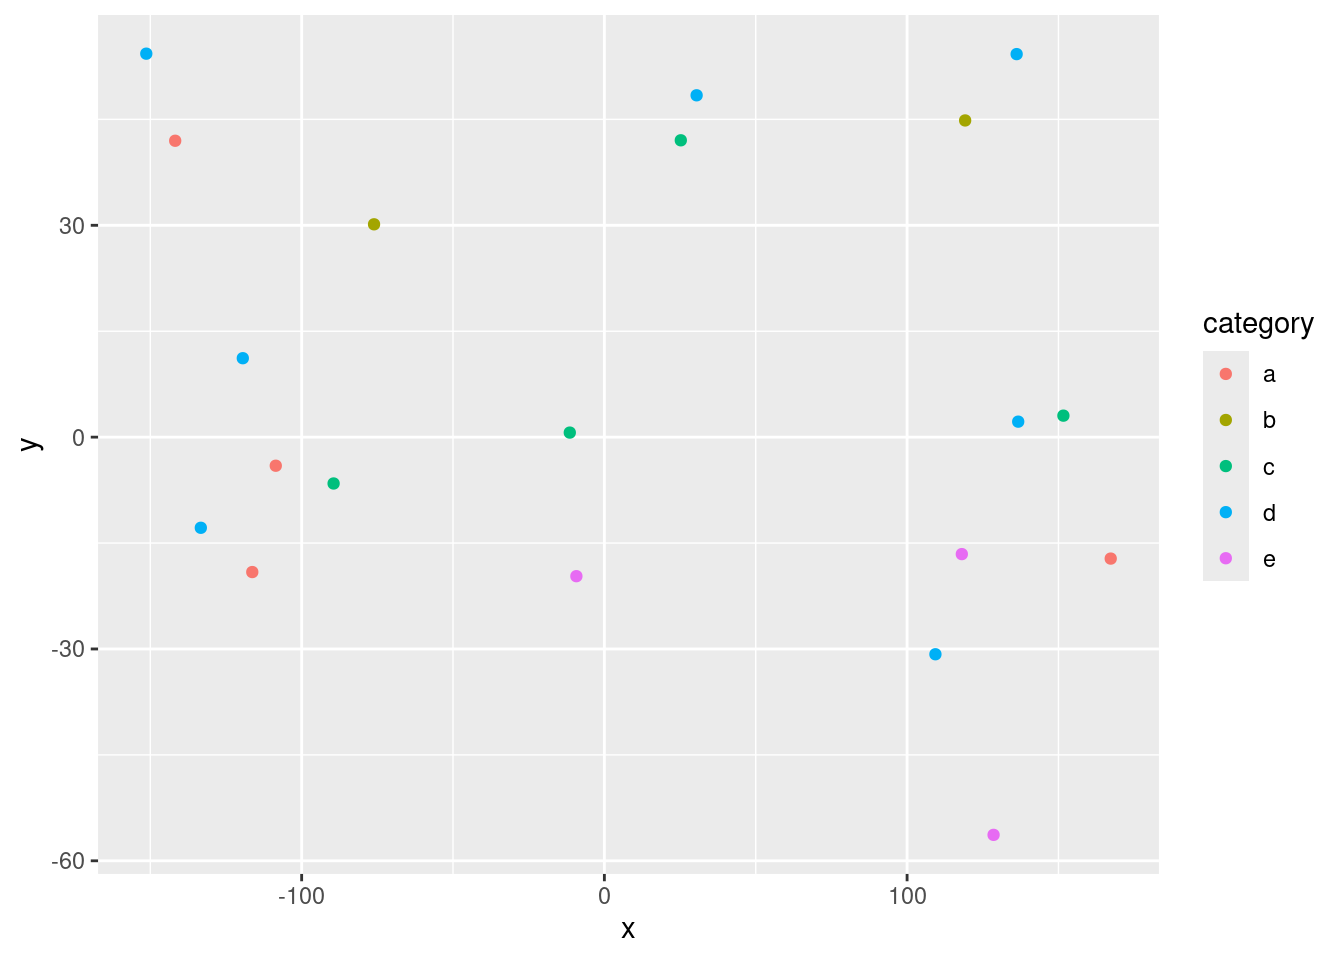
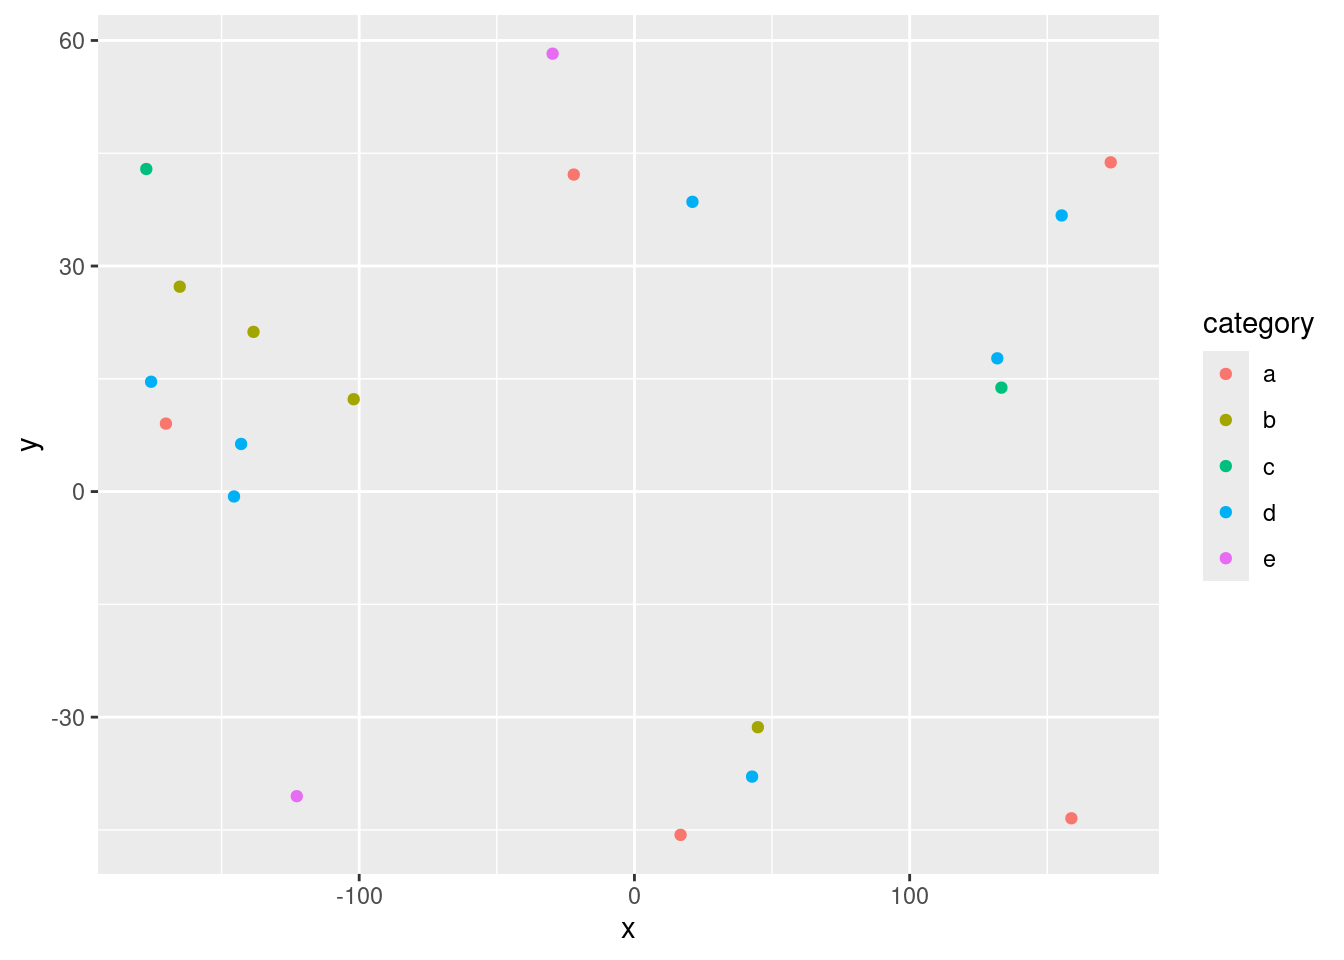
Built site for gh-pages

diff --git a/index.html b/index.html
@@ -7,7 +7,7 @@
 <meta name="viewport" content="width=device-width, initial-scale=1.0, user-scalable=yes">
 
 <meta name="author" content="Your name here">
-<meta name="dcterms.date" content="2024-11-09">
+<meta name="dcterms.date" content="2024-11-10">
 
 <title>My Final Project Template – GEO511_FinalProject</title>
 <style>
@@ -185,7 +185,7 @@ pre > code.sourceCode > span > a:first-child::before { text-decoration: underlin
     <div>
     <div class="quarto-title-meta-heading">Published</div>
     <div class="quarto-title-meta-contents">
-      <p class="date">November 9, 2024</p>
+      <p class="date">November 10, 2024</p>
     </div>
   </div>
   
@@ -199,7 +199,7 @@ pre > code.sourceCode > span > a:first-child::before { text-decoration: underlin
 
 <section id="introduction" class="level1">
 <h1>Introduction</h1>
-<p>Hurricane Milton was a very unusually hurricane in the path it took throughout the Gulf of Mexico, through Florida, and then through the Atlantic when compared to other hurricanes during 2024, with hurricane Helene also being an odd hurricane in the path it took through the continental United States as well. Because of the abnormalities of Milton, I intend to analyze the track of Hurricane Milton through the Gulf of Mexico in comparison to other hurricanes and tropical storm that occurred in the Gulf of Mexico, and via the storm tracks and storm events such as rain and wind measurements of hurricanes from the past 20+ years. In order of doing this, I will be referring to different hurricane records taken from NOAA’s Historical Hurricanes and Tropical systems webpage, the CRAN Hurricane Exposure package and NOAA’s Historical Hurricane Tracks webpage, along with the in class lab’s data set from NOAA’s international-best-track-archive-for-climate-stewardship-ibtracs, as one of the beast means of analysis for the possible change sin strength of hurricane Milton when compared to these other hurricanes. With this, I will also be referring to the Intergovernmental Panel on Climate Change (IPCC) 2022 Sixth Assessment Report to make assessments of the possible strength future hurricanes and tropical storms may have, based on projections about climate change that are listed within the report.</p>
+<p>#Hurricane Milton was a very unusually hurricane in the path it took throughout the Gulf of Mexico, #through Florida, and then through the Atlantic when compared to other hurricanes during 2024, #with hurricane Helene also being an odd hurricane in the path it took through the continental United States as well. #Because of the abnormalities of Milton, I intend to analyze the track of Hurricane Milton through the Gulf of Mexico in comparison to other hurricanes and tropical storm that occurred in the Gulf of Mexico, #and via the storm tracks and storm events such as rain and wind measurements of hurricanes from the past 20+ years. #In order of doing this, I will be referring to different hurricane records taken from NOAA’s Historical Hurricanes and Tropical systems webpage, #the CRAN Hurricane Exposure package and NOAA’s Historical Hurricane Tracks webpage, along with the in class lab’s data set #from NOAA’s international-best-track-archive-for-climate-stewardship-ibtracs, #as one of the beast means of analysis for the possible changes in strength of hurricane Milton when compared to these other hurricanes. #With this, I will also be referring to the Intergovernmental Panel on Climate Change (IPCC) 2022 Sixth Assessment Report to make assessments of the possible strength future hurricanes and tropical storms may have, #based on projections about climate change that are listed within the report.</p>
 </section>
 <section id="materials-and-methods" class="level1">
 <h1>Materials and methods</h1>
@@ -237,6 +237,43 @@ pre > code.sourceCode > span > a:first-child::before { text-decoration: underlin
 </div>
 <section id="download-and-clean-all-required-data" class="level2">
 <h2 class="anchored" data-anchor-id="download-and-clean-all-required-data">Download and clean all required data</h2>
+<p>#SCRIPT</p>
+<p>library(drat) addRepo(“geanders”) install.packages(“hurricaneexposure”) install.packages(“hurricaneexposuredata”)</p>
+<p>library(sf) library(tidyverse) library(ggmap) library(spData) library(lubridate) library(hurricaneexposure) library(hurricaneexposuredata) data(world) data(us_states)</p>
+</section>
+</section>
+<section id="download-a-csv-from-noaa-with-storm-track-information" class="level1">
+<h1>Download a csv from noaa with storm track information</h1>
+<p>dataurl=“https://www.ncei.noaa.gov/data/international-best-track-archive-for-climate-stewardship-ibtracs/v04r01/access/csv/ibtracs.NA.list.v04r01.csv”</p>
+<p>storm_data &lt;- read_csv(dataurl)</p>
+<p>storm_data_new &lt;- storm_data%&gt;% mutate(year = year(ISO_TIME))%&gt;% filter(year &gt;= 2000) %&gt;% mutate_if(is.numeric, function(x) ifelse(x==-999.0,NA,x)) %&gt;% mutate(decade=(floor(year/10)*10))</p>
+<p>sf_storm_data &lt;- storm_data_new %&gt;% st_as_sf(coords=c(“LON”,“LAT”),crs=4326, remove = FALSE)</p>
+<p>region &lt;- st_bbox(sf_storm_data)</p>
+<p>ggplot(data = world)+ geom_sf()+ stat_bin2d(data=storm_data_new, aes(y=st_coordinates(sf_storm_data)[,2], x=st_coordinates(sf_storm_data)[,1]),bins=100)+ facet_wrap(~decade)+ scale_fill_distiller(palette=“YlOrRd”, trans=“log”, direction=-1, breaks = c(1,10,100,1000))+ coord_sf(ylim=region[c(2,4)], xlim=region[c(1,3)])</p>
+<p>#26055, 26109 Milton_storm &lt;- storm_data_new %&gt;% mutate(year = year(ISO_TIME))%&gt;% filter(year == 2024)%&gt;% filter(NUMBER == 71)</p>
+<p>Milton_storm_data &lt;- Milton_storm %&gt;% st_as_sf(coords=c(“LON”,“LAT”),crs=4326, remove = FALSE)</p>
+<p>region &lt;- st_bbox(Milton_storm_data)</p>
+<p>ggplot(data = world)+ geom_sf() + stat_bin2d(data=Milton_storm_data, aes(y=st_coordinates(Milton_storm_data)[,2], x=st_coordinates(Milton_storm_data)[,1]),bins=100)+ scale_fill_distiller(palette=“YlOrRd”, trans=“log”, direction=-1, breaks = c(1,10,100,1000))+ coord_sf(ylim=region[c(2,4)], xlim=region[c(1,3)])</p>
+<p>#install both “hurricaneexposure” &amp;“hurricaneexposuredata” packages for the functions to run data(“hurr_tracks”) head(hurr_tracks) data(“storm_events”) head(storm_events)</p>
+<p>#provides tracks for the hurricanes that occurred</p>
+<p>library(dplyr) library(tidyr) storms_all &lt;- hurr_tracks %&gt;% select(storm_id) %&gt;% distinct() %&gt;% mutate(year = stringr::str_extract(storm_id, “-[0-9].+”)) %&gt;% filter(year &lt;= 2018) map_tracks((storms = storms_all$storm_id), alpha = 0.5, plot_points = TRUE, color = “blue”)</p>
+<p>Gulf_Ariene_1993 &lt;-map_tracks(storms = “Ariene-1993”)</p>
+<p>Gulf_Dean_1995 &lt;-map_tracks(storms = “Dean-1995”)</p>
+<p>Gulf_Bret_1999 &lt;-map_tracks(storms = “Bret-1999”)</p>
+<p>Gulf_Allison_2001 &lt;-map_tracks(storms = “Allison-2001”)</p>
+<p>Gulf_Don_2011 &lt;-map_tracks(storms = “Don-2011”)</p>
+<p>Gulf_Ingrid_2013 &lt;-map_tracks(storms = “Ingrid-2013”)</p>
+<p>Gulf_Bill_2015 &lt;-map_tracks(storms = “Bill-2015”)</p>
+<p>Gulf_Helene_2000 &lt;-map_tracks(storms = “Helene-2000”)</p>
+<p>Gulf_1989 &lt;- map_tracks(storms = c(“Allison-1989”, “Chantal-1989”, “Jerry-1989”), alpha = 0.5, plot_points = TRUE, color = “blue”)</p>
+<p>Gulf_1998 &lt;- map_tracks(storms = c(“Charley-1998”, “Frances-1998”), alpha = 0.5, plot_points = TRUE, color = “blue”)</p>
+<p>Gulf_2002 &lt;- map_tracks(storms = c(“Bertha-2002”, “Fay-2002”), alpha = 0.5, plot_points = TRUE, color = “blue”)</p>
+<p>Gulf_2003 &lt;- map_tracks(storms = c(“Claudette-2003”, “Erika-2003”,“Grace-2003”), alpha = 0.5, plot_points = TRUE, color = “blue”)</p>
+<p>Gulf_2005 &lt;- map_tracks(storms = c(“Emily-2005”, “Rita-2005”), alpha = 0.5, plot_points = TRUE, color = “blue”)</p>
+<p>Gulf_2007 &lt;- map_tracks(storms = c(“Erin-2007”, “Humberto-2007”), alpha = 0.5, plot_points = TRUE, color = “blue”)</p>
+<p>Gulf_2008 &lt;- map_tracks(storms = c(“Dolly-2008”, “Eduoard-2008”,“Ike-2008”), alpha = 0.5, plot_points = TRUE, color = “blue”)</p>
+<p>Gulf_2010 &lt;- map_tracks(storms = c(“Alex-2010”, “Hermine-2010”), alpha = 0.5, plot_points = TRUE, color = “blue”)</p>
+<p>Gulf_2017 &lt;- map_tracks(storms = c(“Cindy-2017”, “Harvey-2017”), alpha = 0.5, plot_points = TRUE, color = “blue”)</p>
 <div class="cell">
 <div class="sourceCode cell-code" id="cb3"><pre class="sourceCode r code-with-copy"><code class="sourceCode r"><span id="cb3-1"><a href="#cb3-1" aria-hidden="true" tabindex="-1"></a>n<span class="ot">=</span><span class="dv">20</span></span>
 <span id="cb3-2"><a href="#cb3-2" aria-hidden="true" tabindex="-1"></a>data<span class="ot">=</span><span class="fu">data.frame</span>(<span class="at">x=</span><span class="fu">runif</span>(n,<span class="sc">-</span><span class="dv">180</span>,<span class="dv">180</span>),</span>
@@ -265,74 +302,74 @@ pre > code.sourceCode > span > a:first-child::before { text-decoration: underlin
 </thead>
 <tbody>
 <tr class="odd">
-<td style="text-align: center;">25.25</td>
-<td style="text-align: center;">42.04</td>
-<td style="text-align: center;">14.74</td>
-<td style="text-align: center;">c</td>
-<td style="text-align: center;">-0.88</td>
-</tr>
-<tr class="even">
-<td style="text-align: center;">-133.31</td>
-<td style="text-align: center;">-12.84</td>
-<td style="text-align: center;">16.66</td>
+<td style="text-align: center;">-175.61</td>
+<td style="text-align: center;">14.61</td>
+<td style="text-align: center;">14.83</td>
 <td style="text-align: center;">d</td>
-<td style="text-align: center;">-0.38</td>
-</tr>
-<tr class="odd">
-<td style="text-align: center;">-9.24</td>
-<td style="text-align: center;">-19.69</td>
-<td style="text-align: center;">16.32</td>
-<td style="text-align: center;">e</td>
-<td style="text-align: center;">-0.30</td>
+<td style="text-align: center;">-0.28</td>
 </tr>
 <tr class="even">
-<td style="text-align: center;">128.57</td>
-<td style="text-align: center;">-56.33</td>
-<td style="text-align: center;">10.25</td>
-<td style="text-align: center;">e</td>
-<td style="text-align: center;">-1.10</td>
+<td style="text-align: center;">-102.00</td>
+<td style="text-align: center;">12.29</td>
+<td style="text-align: center;">19.36</td>
+<td style="text-align: center;">b</td>
+<td style="text-align: center;">1.31</td>
 </tr>
 <tr class="odd">
-<td style="text-align: center;">118.08</td>
-<td style="text-align: center;">-16.57</td>
-<td style="text-align: center;">8.53</td>
-<td style="text-align: center;">e</td>
-<td style="text-align: center;">-0.25</td>
-</tr>
-<tr class="even">
-<td style="text-align: center;">-89.45</td>
-<td style="text-align: center;">-6.57</td>
-<td style="text-align: center;">9.52</td>
-<td style="text-align: center;">c</td>
-<td style="text-align: center;">0.22</td>
-</tr>
-<tr class="odd">
-<td style="text-align: center;">-116.31</td>
-<td style="text-align: center;">-19.11</td>
-<td style="text-align: center;">5.22</td>
+<td style="text-align: center;">16.76</td>
+<td style="text-align: center;">-45.66</td>
+<td style="text-align: center;">17.48</td>
 <td style="text-align: center;">a</td>
-<td style="text-align: center;">-0.75</td>
+<td style="text-align: center;">-1.09</td>
 </tr>
 <tr class="even">
-<td style="text-align: center;">-119.44</td>
-<td style="text-align: center;">11.18</td>
-<td style="text-align: center;">6.67</td>
+<td style="text-align: center;">155.23</td>
+<td style="text-align: center;">36.73</td>
+<td style="text-align: center;">10.64</td>
 <td style="text-align: center;">d</td>
-<td style="text-align: center;">1.20</td>
+<td style="text-align: center;">-0.95</td>
 </tr>
 <tr class="odd">
-<td style="text-align: center;">151.63</td>
-<td style="text-align: center;">3.04</td>
-<td style="text-align: center;">15.85</td>
+<td style="text-align: center;">-177.36</td>
+<td style="text-align: center;">42.90</td>
+<td style="text-align: center;">13.98</td>
 <td style="text-align: center;">c</td>
-<td style="text-align: center;">0.42</td>
+<td style="text-align: center;">-1.00</td>
 </tr>
 <tr class="even">
-<td style="text-align: center;">167.27</td>
-<td style="text-align: center;">-17.20</td>
-<td style="text-align: center;">12.23</td>
+<td style="text-align: center;">133.33</td>
+<td style="text-align: center;">13.82</td>
+<td style="text-align: center;">6.07</td>
+<td style="text-align: center;">c</td>
+<td style="text-align: center;">-0.44</td>
+</tr>
+<tr class="odd">
+<td style="text-align: center;">-122.68</td>
+<td style="text-align: center;">-40.51</td>
+<td style="text-align: center;">16.80</td>
+<td style="text-align: center;">e</td>
+<td style="text-align: center;">0.89</td>
+</tr>
+<tr class="even">
+<td style="text-align: center;">173.05</td>
+<td style="text-align: center;">43.79</td>
+<td style="text-align: center;">11.88</td>
 <td style="text-align: center;">a</td>
-<td style="text-align: center;">-1.19</td>
+<td style="text-align: center;">1.66</td>
+</tr>
+<tr class="odd">
+<td style="text-align: center;">131.85</td>
+<td style="text-align: center;">17.72</td>
+<td style="text-align: center;">12.12</td>
+<td style="text-align: center;">d</td>
+<td style="text-align: center;">-0.31</td>
+</tr>
+<tr class="even">
+<td style="text-align: center;">-142.90</td>
+<td style="text-align: center;">6.33</td>
+<td style="text-align: center;">12.76</td>
+<td style="text-align: center;">d</td>
+<td style="text-align: center;">-0.54</td>
 </tr>
 </tbody>
 </table>
@@ -340,7 +377,6 @@ pre > code.sourceCode > span > a:first-child::before { text-decoration: underlin
 
 
 <p>Add any additional processing steps here.</p>
-</section>
 </section>
 <section id="results" class="level1">
 <h1>Results</h1>
@@ -354,8 +390,8 @@ pre > code.sourceCode > span > a:first-child::before { text-decoration: underlin
 <span id="cb5-4"><a href="#cb5-4" aria-hidden="true" tabindex="-1"></a>  <span class="fu">addPopups</span>(<span class="sc">~</span>x[<span class="dv">2</span>], <span class="sc">~</span>y[<span class="dv">2</span>], <span class="st">"Random popup"</span>)</span>
 <span id="cb5-5"><a href="#cb5-5" aria-hidden="true" tabindex="-1"></a>m  <span class="co"># a map with the default OSM tile layer</span></span></code><button title="Copy to Clipboard" class="code-copy-button"><i class="bi"></i></button></pre></div>
 <div class="cell-output-display">
-<div class="leaflet html-widget html-fill-item" id="htmlwidget-4b286e2ab1c89b15b603" style="width:100%;height:325px;"></div>
-<script type="application/json" data-for="htmlwidget-4b286e2ab1c89b15b603">{"x":{"options":{"crs":{"crsClass":"L.CRS.EPSG3857","code":null,"proj4def":null,"projectedBounds":null,"options":{}}},"calls":[{"method":"addTiles","args":["https://{s}.tile.openstreetmap.org/{z}/{x}/{y}.png",null,null,{"minZoom":0,"maxZoom":18,"tileSize":256,"subdomains":"abc","errorTileUrl":"","tms":false,"noWrap":false,"zoomOffset":0,"zoomReverse":false,"opacity":1,"zIndex":1,"detectRetina":false,"attribution":"&copy; <a href=\"https://openstreetmap.org/copyright/\">OpenStreetMap<\/a>,  <a href=\"https://opendatacommons.org/licenses/odbl/\">ODbL<\/a>"}]},{"method":"addCircleMarkers","args":[[42.03814018517733,-12.83897132612765,-19.69325233250856,-56.32890927605331,-16.56726063229144,-6.56572574749589,-19.10895575769246,11.17715600878,3.04267362691462,-17.20129106193781,30.13962236233056,2.191876955330372,54.30655335076153,-30.74905363842845,44.84964642673731,41.9726999849081,48.41022175736725,0.6425495445728302,-4.049542341381311,54.24403418786824],[25.24783872999251,-133.3095816895366,-9.244010830298066,128.5694121010602,118.0824926029891,-89.44752713665366,-116.3109335303307,-119.4400219526142,151.6340455971658,167.267427239567,-76.08909074217081,136.7075709532946,-151.3233163766563,109.3598539195955,119.1770881041884,-141.7756562680006,30.47510921023786,-11.42447560094297,-108.5490017663687,136.1915603745729],[14.74425835651346,16.66377631365322,16.31988878012635,10.25062112137675,8.525992502691224,9.519587439717725,5.217095385305583,6.671994670759887,15.85428945720196,12.23168040858582,16.74127644160762,7.62124624219723,13.55958201107569,7.232792017748579,6.693770247511566,7.294843969866633,16.04155600303784,19.93461178150028,13.72603836585768,19.05596509459428],null,null,{"interactive":true,"className":"","stroke":true,"color":["c","d","e","e","e","c","a","d","c","a","b","d","d","d","b","a","d","c","a","d"],"weight":5,"opacity":0.5,"fill":true,"fillColor":["c","d","e","e","e","c","a","d","c","a","b","d","d","d","b","a","d","c","a","d"],"fillOpacity":0.2},null,null,null,null,null,{"interactive":false,"permanent":false,"direction":"auto","opacity":1,"offset":[0,0],"textsize":"10px","textOnly":false,"className":"","sticky":true},null]},{"method":"addPopups","args":[-12.83897132612765,-133.3095816895366,"Random popup",null,null,{"maxWidth":300,"minWidth":50,"autoPan":true,"keepInView":false,"closeButton":true,"className":""}]}],"limits":{"lat":[-56.32890927605331,54.30655335076153],"lng":[-151.3233163766563,167.267427239567]}},"evals":[],"jsHooks":[]}</script>
+<div class="leaflet html-widget html-fill-item" id="htmlwidget-a86ff4ddb4f8c24c6c8d" style="width:100%;height:325px;"></div>
+<script type="application/json" data-for="htmlwidget-a86ff4ddb4f8c24c6c8d">{"x":{"options":{"crs":{"crsClass":"L.CRS.EPSG3857","code":null,"proj4def":null,"projectedBounds":null,"options":{}}},"calls":[{"method":"addTiles","args":["https://{s}.tile.openstreetmap.org/{z}/{x}/{y}.png",null,null,{"minZoom":0,"maxZoom":18,"tileSize":256,"subdomains":"abc","errorTileUrl":"","tms":false,"noWrap":false,"zoomOffset":0,"zoomReverse":false,"opacity":1,"zIndex":1,"detectRetina":false,"attribution":"&copy; <a href=\"https://openstreetmap.org/copyright/\">OpenStreetMap<\/a>,  <a href=\"https://opendatacommons.org/licenses/odbl/\">ODbL<\/a>"}]},{"method":"addCircleMarkers","args":[[14.60692268796265,12.28601574897766,-45.65851958468556,36.72723926603794,42.90274187922478,13.82247568108141,-40.51243370398879,43.78938381560147,17.72411744110286,6.333241509273648,21.24058797955513,-37.90906461887062,58.24386619962752,9.038551300764084,-0.6504520308226347,42.16502903960645,38.53911551646888,-43.45259182155132,-31.33863754570484,27.25138435140252],[-175.608246428892,-101.9995559658855,16.76168697886169,155.2285278774798,-177.3557247966528,133.3345678076148,-122.6797107607126,173.0504449736327,131.845509884879,-142.9012959077954,-138.4029292222112,42.75326228700578,-29.72202840261161,-170.2222591638565,-145.4847795143723,-22.04227675683796,21.07706758193672,158.7576863821596,44.83617662452161,-165.1971000060439],[14.82849242514931,19.35779883526266,17.48030600138009,10.64043469494209,13.98139141849242,6.065272111445665,16.80035539553501,11.88453233218752,12.12457463727333,12.75767647777684,16.27745295758359,15.33488010056317,5.688492585904896,19.40714975236915,19.12987457937561,6.853986739879474,16.46218433743343,10.44796227477491,9.677149383351207,13.72695901314728],null,null,{"interactive":true,"className":"","stroke":true,"color":["d","b","a","d","c","c","e","a","d","d","b","d","e","a","d","a","d","a","b","b"],"weight":5,"opacity":0.5,"fill":true,"fillColor":["d","b","a","d","c","c","e","a","d","d","b","d","e","a","d","a","d","a","b","b"],"fillOpacity":0.2},null,null,null,null,null,{"interactive":false,"permanent":false,"direction":"auto","opacity":1,"offset":[0,0],"textsize":"10px","textOnly":false,"className":"","sticky":true},null]},{"method":"addPopups","args":[12.28601574897766,-101.9995559658855,"Random popup",null,null,{"maxWidth":300,"minWidth":50,"autoPan":true,"keepInView":false,"closeButton":true,"className":""}]}],"limits":{"lat":[-45.65851958468556,58.24386619962752],"lng":[-177.3557247966528,173.0504449736327]}},"evals":[],"jsHooks":[]}</script>
 <p>Map of completely random data</p>
 </div>
 </div>
@@ -378,8 +414,8 @@ pre > code.sourceCode > span > a:first-child::before { text-decoration: underlin
 <span id="cb7-2"><a href="#cb7-2" aria-hidden="true" tabindex="-1"></a><span class="fu">dygraph</span>(nhtemp, <span class="at">main =</span> <span class="st">"New Haven Temperatures"</span>) <span class="sc">|&gt;</span> </span>
 <span id="cb7-3"><a href="#cb7-3" aria-hidden="true" tabindex="-1"></a>  <span class="fu">dyRangeSelector</span>(<span class="at">dateWindow =</span> <span class="fu">c</span>(<span class="st">"1920-01-01"</span>, <span class="st">"1960-01-01"</span>)) </span></code><button title="Copy to Clipboard" class="code-copy-button"><i class="bi"></i></button></pre></div>
 <div class="cell-output-display">
-<div class="dygraphs html-widget html-fill-item" id="htmlwidget-1fae99eb1088cb05c6dd" style="width:100%;height:464px;"></div>
-<script type="application/json" data-for="htmlwidget-1fae99eb1088cb05c6dd">{"x":{"attrs":{"title":"New Haven Temperatures","labels":["year","V1"],"legend":"auto","retainDateWindow":false,"axes":{"x":{"pixelsPerLabel":60}},"showRangeSelector":true,"dateWindow":["1920-01-01T00:00:00.000Z","1960-01-01T00:00:00.000Z"],"rangeSelectorHeight":40,"rangeSelectorPlotFillColor":" #A7B1C4","rangeSelectorPlotStrokeColor":"#808FAB","interactionModel":"Dygraph.Interaction.defaultModel"},"scale":"yearly","annotations":[],"shadings":[],"events":[],"format":"date","data":[["1912-01-01T00:00:00.000Z","1913-01-01T00:00:00.000Z","1914-01-01T00:00:00.000Z","1915-01-01T00:00:00.000Z","1916-01-01T00:00:00.000Z","1917-01-01T00:00:00.000Z","1918-01-01T00:00:00.000Z","1919-01-01T00:00:00.000Z","1920-01-01T00:00:00.000Z","1921-01-01T00:00:00.000Z","1922-01-01T00:00:00.000Z","1923-01-01T00:00:00.000Z","1924-01-01T00:00:00.000Z","1925-01-01T00:00:00.000Z","1926-01-01T00:00:00.000Z","1927-01-01T00:00:00.000Z","1928-01-01T00:00:00.000Z","1929-01-01T00:00:00.000Z","1930-01-01T00:00:00.000Z","1931-01-01T00:00:00.000Z","1932-01-01T00:00:00.000Z","1933-01-01T00:00:00.000Z","1934-01-01T00:00:00.000Z","1935-01-01T00:00:00.000Z","1936-01-01T00:00:00.000Z","1937-01-01T00:00:00.000Z","1938-01-01T00:00:00.000Z","1939-01-01T00:00:00.000Z","1940-01-01T00:00:00.000Z","1941-01-01T00:00:00.000Z","1942-01-01T00:00:00.000Z","1943-01-01T00:00:00.000Z","1944-01-01T00:00:00.000Z","1945-01-01T00:00:00.000Z","1946-01-01T00:00:00.000Z","1947-01-01T00:00:00.000Z","1948-01-01T00:00:00.000Z","1949-01-01T00:00:00.000Z","1950-01-01T00:00:00.000Z","1951-01-01T00:00:00.000Z","1952-01-01T00:00:00.000Z","1953-01-01T00:00:00.000Z","1954-01-01T00:00:00.000Z","1955-01-01T00:00:00.000Z","1956-01-01T00:00:00.000Z","1957-01-01T00:00:00.000Z","1958-01-01T00:00:00.000Z","1959-01-01T00:00:00.000Z","1960-01-01T00:00:00.000Z","1961-01-01T00:00:00.000Z","1962-01-01T00:00:00.000Z","1963-01-01T00:00:00.000Z","1964-01-01T00:00:00.000Z","1965-01-01T00:00:00.000Z","1966-01-01T00:00:00.000Z","1967-01-01T00:00:00.000Z","1968-01-01T00:00:00.000Z","1969-01-01T00:00:00.000Z","1970-01-01T00:00:00.000Z","1971-01-01T00:00:00.000Z"],[49.9,52.3,49.4,51.1,49.4,47.9,49.8,50.9,49.3,51.9,50.8,49.6,49.3,50.6,48.4,50.7,50.9,50.6,51.5,52.8,51.8,51.1,49.8,50.2,50.4,51.6,51.8,50.9,48.8,51.7,51,50.6,51.7,51.5,52.1,51.3,51,54,51.4,52.7,53.1,54.6,52,52,50.9,52.6,50.2,52.6,51.6,51.9,50.5,50.9,51.7,51.4,51.7,50.8,51.9,51.8,51.9,53]]},"evals":["attrs.interactionModel"],"jsHooks":[]}</script>
+<div class="dygraphs html-widget html-fill-item" id="htmlwidget-3021a4173deb64e3fa46" style="width:100%;height:464px;"></div>
+<script type="application/json" data-for="htmlwidget-3021a4173deb64e3fa46">{"x":{"attrs":{"title":"New Haven Temperatures","labels":["year","V1"],"legend":"auto","retainDateWindow":false,"axes":{"x":{"pixelsPerLabel":60}},"showRangeSelector":true,"dateWindow":["1920-01-01T00:00:00.000Z","1960-01-01T00:00:00.000Z"],"rangeSelectorHeight":40,"rangeSelectorPlotFillColor":" #A7B1C4","rangeSelectorPlotStrokeColor":"#808FAB","interactionModel":"Dygraph.Interaction.defaultModel"},"scale":"yearly","annotations":[],"shadings":[],"events":[],"format":"date","data":[["1912-01-01T00:00:00.000Z","1913-01-01T00:00:00.000Z","1914-01-01T00:00:00.000Z","1915-01-01T00:00:00.000Z","1916-01-01T00:00:00.000Z","1917-01-01T00:00:00.000Z","1918-01-01T00:00:00.000Z","1919-01-01T00:00:00.000Z","1920-01-01T00:00:00.000Z","1921-01-01T00:00:00.000Z","1922-01-01T00:00:00.000Z","1923-01-01T00:00:00.000Z","1924-01-01T00:00:00.000Z","1925-01-01T00:00:00.000Z","1926-01-01T00:00:00.000Z","1927-01-01T00:00:00.000Z","1928-01-01T00:00:00.000Z","1929-01-01T00:00:00.000Z","1930-01-01T00:00:00.000Z","1931-01-01T00:00:00.000Z","1932-01-01T00:00:00.000Z","1933-01-01T00:00:00.000Z","1934-01-01T00:00:00.000Z","1935-01-01T00:00:00.000Z","1936-01-01T00:00:00.000Z","1937-01-01T00:00:00.000Z","1938-01-01T00:00:00.000Z","1939-01-01T00:00:00.000Z","1940-01-01T00:00:00.000Z","1941-01-01T00:00:00.000Z","1942-01-01T00:00:00.000Z","1943-01-01T00:00:00.000Z","1944-01-01T00:00:00.000Z","1945-01-01T00:00:00.000Z","1946-01-01T00:00:00.000Z","1947-01-01T00:00:00.000Z","1948-01-01T00:00:00.000Z","1949-01-01T00:00:00.000Z","1950-01-01T00:00:00.000Z","1951-01-01T00:00:00.000Z","1952-01-01T00:00:00.000Z","1953-01-01T00:00:00.000Z","1954-01-01T00:00:00.000Z","1955-01-01T00:00:00.000Z","1956-01-01T00:00:00.000Z","1957-01-01T00:00:00.000Z","1958-01-01T00:00:00.000Z","1959-01-01T00:00:00.000Z","1960-01-01T00:00:00.000Z","1961-01-01T00:00:00.000Z","1962-01-01T00:00:00.000Z","1963-01-01T00:00:00.000Z","1964-01-01T00:00:00.000Z","1965-01-01T00:00:00.000Z","1966-01-01T00:00:00.000Z","1967-01-01T00:00:00.000Z","1968-01-01T00:00:00.000Z","1969-01-01T00:00:00.000Z","1970-01-01T00:00:00.000Z","1971-01-01T00:00:00.000Z"],[49.9,52.3,49.4,51.1,49.4,47.9,49.8,50.9,49.3,51.9,50.8,49.6,49.3,50.6,48.4,50.7,50.9,50.6,51.5,52.8,51.8,51.1,49.8,50.2,50.4,51.6,51.8,50.9,48.8,51.7,51,50.6,51.7,51.5,52.1,51.3,51,54,51.4,52.7,53.1,54.6,52,52,50.9,52.6,50.2,52.6,51.6,51.9,50.5,50.9,51.7,51.4,51.7,50.8,51.9,51.8,51.9,53]]},"evals":["attrs.interactionModel"],"jsHooks":[]}</script>
 </div>
 </div>
 </section>
